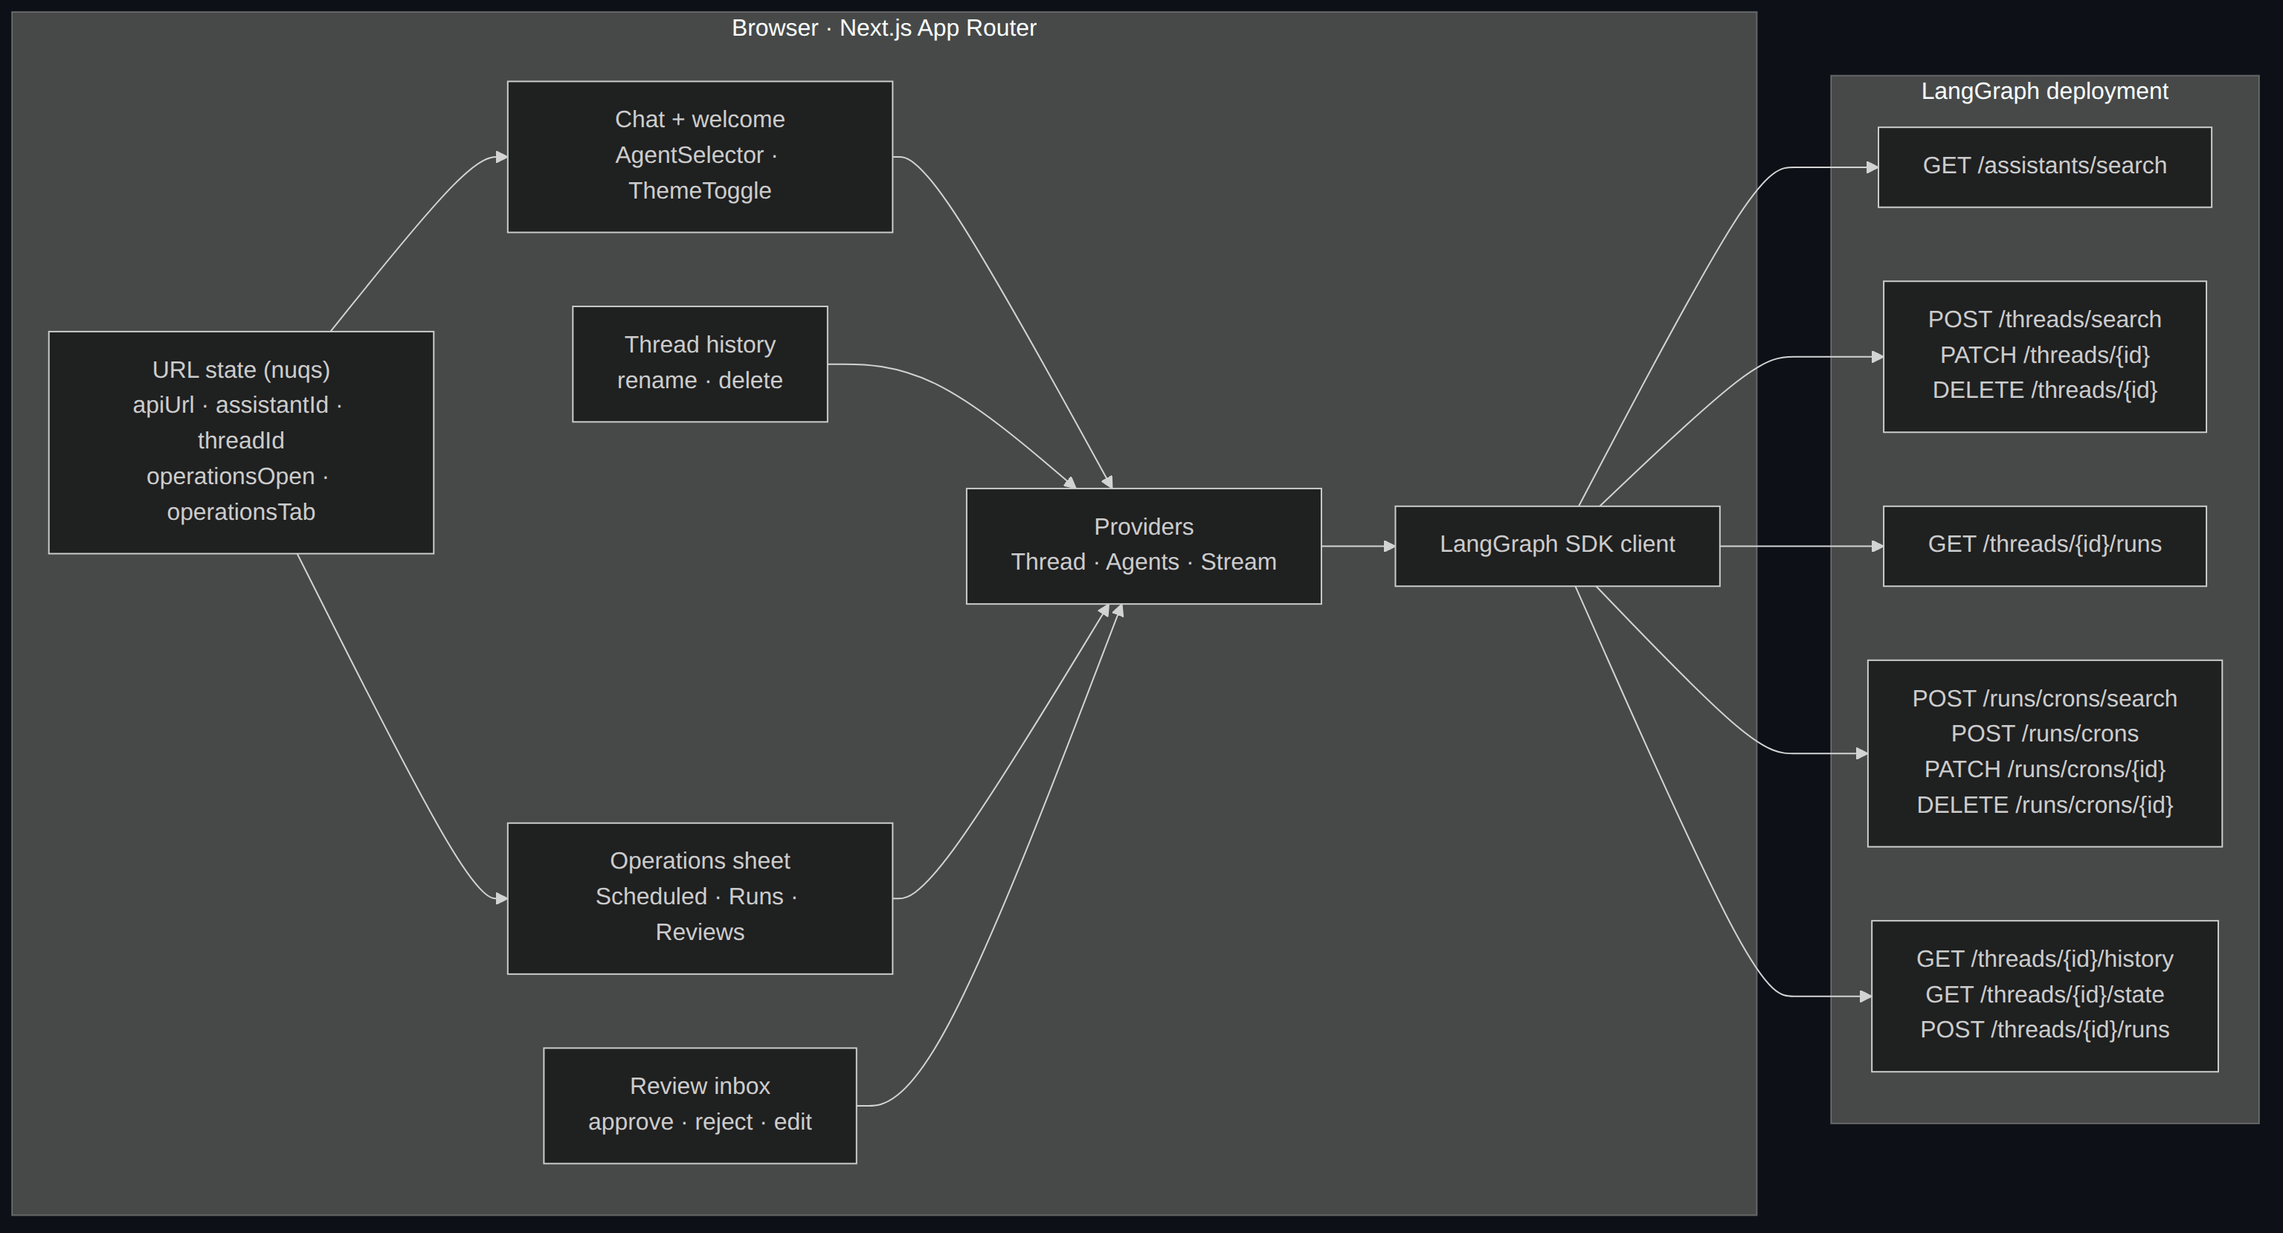
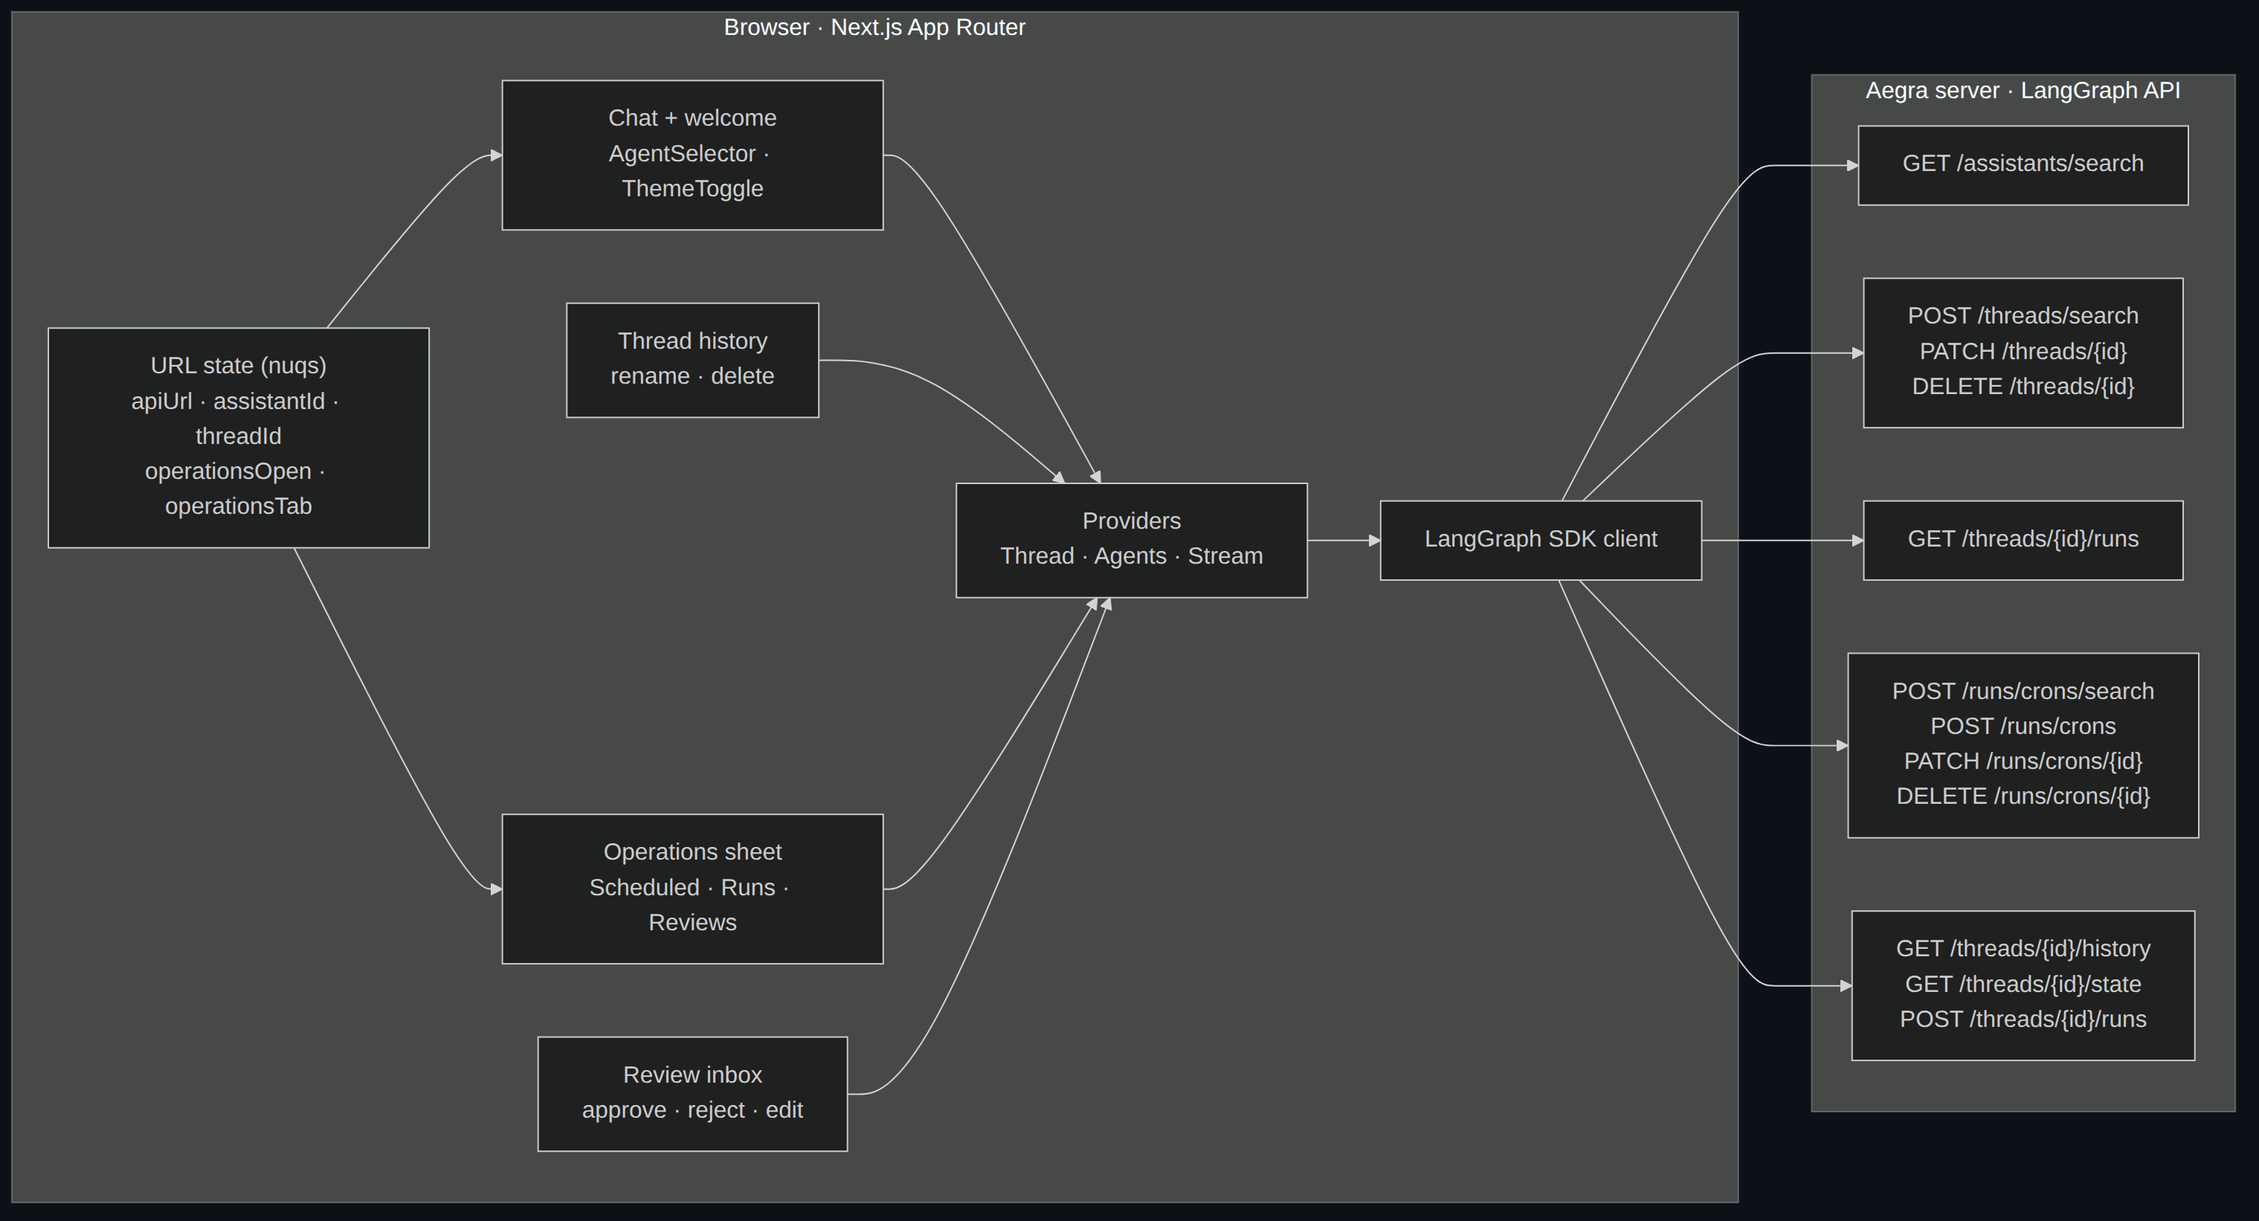
docs: position Agent Workspace around Aegra

diff --git a/README.md b/README.md
@@ -6,7 +6,9 @@
 ![LangGraph SDK](https://img.shields.io/badge/LangGraph-SDK-1c3d5a)
 ![License: MIT](https://img.shields.io/badge/License-MIT-green)
 
-Agent Workspace is a Next.js interface for LangGraph deployments. It combines a streaming chat client with the day-to-day controls an operator needs: agent selection, conversation management, scheduled jobs, run monitoring, human-in-the-loop review, and light/dark themes.
+Agent Workspace is a Next.js operations UI for **Aegra**, the backend server that hosts your agents and graph workflows. It combines a streaming chat client with the day-to-day controls an operator needs: agent selection, conversation management, scheduled jobs, run monitoring, human-in-the-loop review, and light/dark themes.
+
+The LangGraph SDK connects to Aegra's LangGraph-compatible API. You can point the same UI at another compatible deployment by changing `NEXT_PUBLIC_API_URL`.
 
 <picture>
   <source media="(prefers-color-scheme: dark)" srcset="./docs/images/ui-dark.png">
@@ -44,12 +46,12 @@ Agent Workspace is a Next.js interface for LangGraph deployments. It combines a 
 
 <picture>
   <source media="(prefers-color-scheme: dark)" srcset="./docs/images/architecture-dark.png">
-  <img src="./docs/images/architecture.png" alt="Architecture: the Next.js UI calls the LangGraph SDK, which calls assistants, threads, runs, crons, and stream endpoints.">
+  <img src="./docs/images/architecture.png" alt="Architecture: the Next.js UI calls the LangGraph SDK, which talks to Aegra's LangGraph-compatible API for assistants, threads, runs, crons, and streaming.">
 </picture>
 
-The UI keeps no application database. URL state (`apiUrl`, `assistantId`, `threadId`, `operationsOpen`, `operationsTab`) drives navigation, while the LangGraph SDK talks directly to the deployment.
+The UI keeps no application database. URL state (`apiUrl`, `assistantId`, `threadId`, `operationsOpen`, `operationsTab`) drives navigation, while the LangGraph SDK talks directly to Aegra. Aegra hosts the agents and graph workflows and exposes the assistants, threads, runs, crons, and streaming endpoints.
 
-| UI action              | SDK call                                    |
+| UI action              | Aegra / LangGraph API call                  |
 | ---------------------- | ------------------------------------------- |
 | Load agents            | `assistants.search`                         |
 | Load threads           | `threads.search`                            |
@@ -69,7 +71,8 @@ See [docs/design.md](./docs/design.md) for the full component map, review handof
 | Framework           | Next.js 16 App Router, React 19, TypeScript                  |
 | Styling             | Tailwind CSS 4, Radix UI primitives, shadcn-style components |
 | State and URL       | React context providers, `nuqs`                              |
-| LangGraph           | `@langchain/langgraph-sdk`                                   |
+| Backend             | Aegra, with a LangGraph-compatible API                       |
+| Client              | `@langchain/langgraph-sdk`                                   |
 | Themes              | `next-themes`                                                |
 | Motion and feedback | Framer Motion, Sonner                                        |
 
@@ -77,7 +80,7 @@ See [docs/design.md](./docs/design.md) for the full component map, review handof
 
 - Node.js 20 or newer
 - pnpm
-- A LangGraph server whose graph state includes a `messages` key
+- A running Aegra server, or another LangGraph-compatible deployment, whose graph state includes a `messages` key
 
 ## Quick start
 
@@ -86,10 +89,13 @@ pnpm install
 cp .env.example .env
 ```
 
-Set the deployment URL and assistant or graph ID in `.env`:
+Start Aegra with your agents and graph workflows, then set its URL and the agent or graph ID in `.env`:
 
 ```bash
+# Aegra server URL
 NEXT_PUBLIC_API_URL=http://localhost:2024
+
+# Agent or graph ID hosted by Aegra
 NEXT_PUBLIC_ASSISTANT_ID=agent
 ```
 
@@ -99,17 +105,17 @@ Start the app:
 pnpm dev
 ```
 
-Open [http://localhost:3000](http://localhost:3000). If you do not set the environment variables, the app shows a setup form where you can enter the deployment URL, assistant or graph ID, and optional credentials. The setup form can also load the available agents from the deployment.
+Open [http://localhost:3000](http://localhost:3000). If you do not set the environment variables, the app shows a setup form where you can enter the Aegra URL, agent or graph ID, and optional credentials. The setup form can also load the available agents from Aegra.
 
 ## Configuration
 
-| Variable                   | Required               | Purpose                                                                         |
-| -------------------------- | ---------------------- | ------------------------------------------------------------------------------- |
-| `NEXT_PUBLIC_API_URL`      | Yes                    | LangGraph deployment URL, or your own `/api` passthrough URL in production      |
-| `NEXT_PUBLIC_ASSISTANT_ID` | Yes                    | Assistant UUID or graph ID to use by default                                    |
-| `NEXT_PUBLIC_AUTH_SCHEME`  | No                     | Set to `langsmith-api-key` for LangSmith Agent Builder deployments              |
-| `LANGSMITH_API_KEY`        | Server-side only       | Injected by the API passthrough in production; never prefix with `NEXT_PUBLIC_` |
-| `LANGGRAPH_API_URL`        | Production passthrough | The upstream LangGraph deployment URL                                           |
+| Variable                   | Required               | Purpose                                                                                          |
+| -------------------------- | ---------------------- | ------------------------------------------------------------------------------------------------ |
+| `NEXT_PUBLIC_API_URL`      | Yes                    | Aegra server URL, another LangGraph-compatible URL, or your own `/api` passthrough in production |
+| `NEXT_PUBLIC_ASSISTANT_ID` | Yes                    | Agent UUID or graph ID hosted by Aegra                                                           |
+| `NEXT_PUBLIC_AUTH_SCHEME`  | No                     | Set to `langsmith-api-key` only for LangSmith Agent Builder deployments                          |
+| `LANGSMITH_API_KEY`        | Server-side only       | Injected by the API passthrough when required; never prefix with `NEXT_PUBLIC_`                  |
+| `LANGGRAPH_API_URL`        | Production passthrough | The upstream Aegra or LangGraph-compatible URL                                                   |
 
 The selected agent, active thread, and operations view are stored in the URL. The API key is handled by the existing client credentials helpers and must never be committed.
 
@@ -161,9 +167,11 @@ Open **Operations → Runs** to see recent runs across the selected agent. The d
 
 Open **Operations → Reviews** to see threads paused on a human-in-the-loop interrupt. Selecting a review closes Operations and opens the thread, where the existing approval surface handles approve, reject, and edit decisions. The review queue discovers work; it does not bypass the approval flow.
 
-### Themes
+### Themes and text size
 
-Use the moon/sun button in the header, sidebar, or setup form. The default is the system theme. The choice is persisted by `next-themes`.
+Use the moon/sun button in the header or setup form. The default is the system theme, persisted by `next-themes`.
+
+Use the **T** button in the workspace header to choose Small, Default, or Large text. The choice is persisted in `localStorage` and applies immediately on the next load.
 
 ## Project structure
 
@@ -214,7 +222,7 @@ Diagrams are available in light and dark variants under [docs/images](./docs/ima
 
 ## Production
 
-The default setup connects to LangGraph directly from the browser. For production, proxy requests so users do not need a LangSmith API key.
+The default setup connects to Aegra directly from the browser. For production, proxy requests if Aegra or your deployment requires server-side credentials.
 
 ### API passthrough quickstart
 
@@ -222,21 +230,21 @@ This repository includes the passthrough route at `src/app/api/[..._path]/route.
 
 ```bash
 NEXT_PUBLIC_ASSISTANT_ID="agent"
-LANGGRAPH_API_URL="https://my-agent.default.us.langgraph.app"
+LANGGRAPH_API_URL="https://your-aegra-server.example.com"
 NEXT_PUBLIC_API_URL="https://my-website.com/api"
-LANGSMITH_API_KEY="lsv2_..."
+LANGSMITH_API_KEY="lsv2_..." # only if your deployment requires it
 ```
 
 - `NEXT_PUBLIC_API_URL` points to your site plus `/api`.
-- `LANGGRAPH_API_URL` is the upstream LangGraph deployment.
-- `LANGSMITH_API_KEY` stays server-side and is injected by the proxy.
+- `LANGGRAPH_API_URL` is the upstream Aegra server.
+- `LANGSMITH_API_KEY` stays server-side and is injected by the proxy when required.
 
 > [!WARNING]
 > The API passthrough does not authenticate its callers. If you expose it with a LangSmith key and no gate of your own, anyone who reaches the URL can read, modify, and delete threads and store items, and start runs billed to your account. Add authentication before deploying, or remove the proxy route and use LangGraph custom authentication.
 
 ### Custom authentication
 
-For stronger control, configure custom authentication on the LangGraph deployment, set `NEXT_PUBLIC_API_URL` to the deployment URL, and pass the user's token through the stream client's `defaultHeaders` in `src/providers/Stream.tsx`.
+For stronger control, configure custom authentication on Aegra or your LangGraph-compatible deployment, set `NEXT_PUBLIC_API_URL` to the deployment URL, and pass the user's token through the stream client's `defaultHeaders` in `src/providers/Stream.tsx`.
 
 ## Message rendering
 

diff --git a/docs/design.md b/docs/design.md
@@ -20,28 +20,28 @@ The design keeps the existing streaming and human-in-the-loop behavior. Reviews 
 
 <picture>
   <source media="(prefers-color-scheme: dark)" srcset="./images/architecture-dark.png">
-  <img src="./images/architecture.png" alt="Browser providers call the LangGraph SDK, which calls assistants, threads, runs, crons, and stream endpoints.">
+  <img src="./images/architecture.png" alt="Browser providers call the LangGraph SDK, which talks to Aegra's LangGraph-compatible assistants, threads, runs, crons, and stream endpoints.">
 </picture>
 
 Diagram source: [diagrams/architecture.mmd](./diagrams/architecture.mmd)
 
 ### Component responsibilities
 
-| Layer           | Component                                                  | Responsibility                                                                               |
-| --------------- | ---------------------------------------------------------- | -------------------------------------------------------------------------------------------- |
-| App shell       | `src/app/page.tsx`                                         | Wraps the app in `ThreadProvider` → `AgentsProvider` → `StreamProvider` → `ArtifactProvider` |
-| Theme           | `src/app/layout.tsx`, `src/components/theme-toggle.tsx`    | Class-based light/dark selection, system default, persisted preference                       |
-| Thread state    | `src/providers/Thread.tsx`                                 | Shared SDK client, thread search, refresh, rename, delete                                    |
-| Agent state     | `src/providers/Agents.tsx`                                 | Assistant search, selection, loading and error state                                         |
-| Streaming       | `src/providers/Stream.tsx`                                 | Remounts the stream session when the assistant changes; setup form can discover assistants   |
-| Navigation      | `src/components/agents/agent-selector.tsx`                 | Header dropdown with refresh and selected state                                              |
-| History         | `src/components/thread/history/index.tsx`                  | Thread list, inline rename, delete dialog, operations trigger                                |
-| Operations      | `src/components/operations/index.tsx`                      | URL-backed sheet with Scheduled, Runs, Reviews tabs                                          |
-| Scheduled       | `crons-tab.tsx`, `create-cron-dialog.tsx`                  | List, create, enable/pause, delete                                                           |
-| Runs            | `runs-tab.tsx`                                             | Recent runs across the twelve most recently updated threads                                  |
-| Reviews         | `reviews-tab.tsx`                                          | Interrupted threads and their pending action requests                                        |
-| Reviews handoff | `src/components/thread/agent-inbox/*`                      | Existing approve / reject / edit flow                                                        |
-| Formatting      | `src/lib/threads.ts`, `src/components/operations/utils.ts` | Title resolution, search metadata, relative time, interrupt extraction                       |
+| Layer           | Component                                                                                      | Responsibility                                                                               |
+| --------------- | ---------------------------------------------------------------------------------------------- | -------------------------------------------------------------------------------------------- |
+| App shell       | `src/app/page.tsx`                                                                             | Wraps the app in `ThreadProvider` → `AgentsProvider` → `StreamProvider` → `ArtifactProvider` |
+| Theme and text  | `src/app/layout.tsx`, `src/components/theme-toggle.tsx`, `src/components/font-size-toggle.tsx` | Class-based light/dark selection and Small/Default/Large text, both persisted                |
+| Thread state    | `src/providers/Thread.tsx`                                                                     | Shared SDK client, thread search, refresh, rename, delete                                    |
+| Agent state     | `src/providers/Agents.tsx`                                                                     | Assistant search, selection, loading and error state                                         |
+| Streaming       | `src/providers/Stream.tsx`                                                                     | Remounts the stream session when the assistant changes; setup form can discover assistants   |
+| Navigation      | `src/components/agents/agent-selector.tsx`                                                     | Header dropdown with refresh and selected state                                              |
+| History         | `src/components/thread/history/index.tsx`                                                      | Thread list, inline rename, delete dialog, operations trigger                                |
+| Operations      | `src/components/operations/index.tsx`                                                          | URL-backed sheet with Scheduled, Runs, Reviews tabs                                          |
+| Scheduled       | `crons-tab.tsx`, `create-cron-dialog.tsx`                                                      | List, create, enable/pause, delete                                                           |
+| Runs            | `runs-tab.tsx`                                                                                 | Recent runs across the twelve most recently updated threads                                  |
+| Reviews         | `reviews-tab.tsx`                                                                              | Interrupted threads and their pending action requests                                        |
+| Reviews handoff | `src/components/thread/agent-inbox/*`                                                          | Existing approve / reject / edit flow                                                        |
+| Formatting      | `src/lib/threads.ts`, `src/components/operations/utils.ts`                                     | Title resolution, search metadata, relative time, interrupt extraction                       |
 
 ## 3. Navigation and URL state
 
@@ -49,7 +49,7 @@ Diagram source: [diagrams/architecture.mmd](./diagrams/architecture.mmd)
 
 | Query key         | Owner                              | Behavior                                                                           |
 | ----------------- | ---------------------------------- | ---------------------------------------------------------------------------------- |
-| `apiUrl`          | `StreamProvider`, `ThreadProvider` | LangGraph deployment URL                                                           |
+| `apiUrl`          | `StreamProvider`, `ThreadProvider` | Aegra or LangGraph-compatible deployment URL                                       |
 | `assistantId`     | `AgentsProvider`, `StreamProvider` | Selected assistant UUID or graph ID                                                |
 | `threadId`        | `StreamProvider`, `ThreadProvider` | Active conversation; cleared on agent switch, new thread, or current-thread delete |
 | `operationsOpen`  | `OperationsSheet`                  | Opens or closes the operations sheet                                               |
